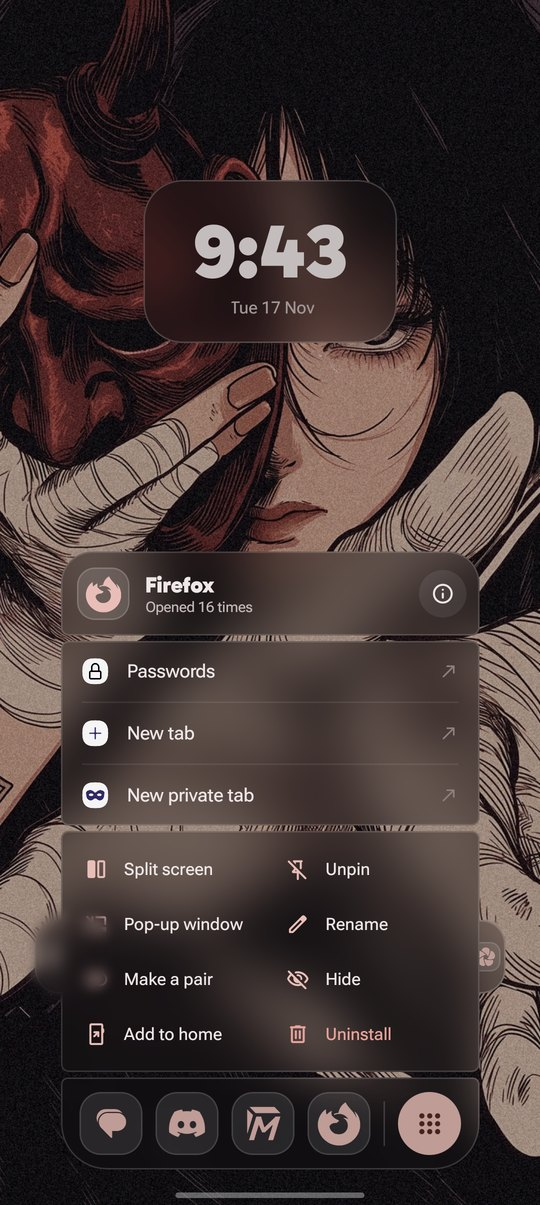
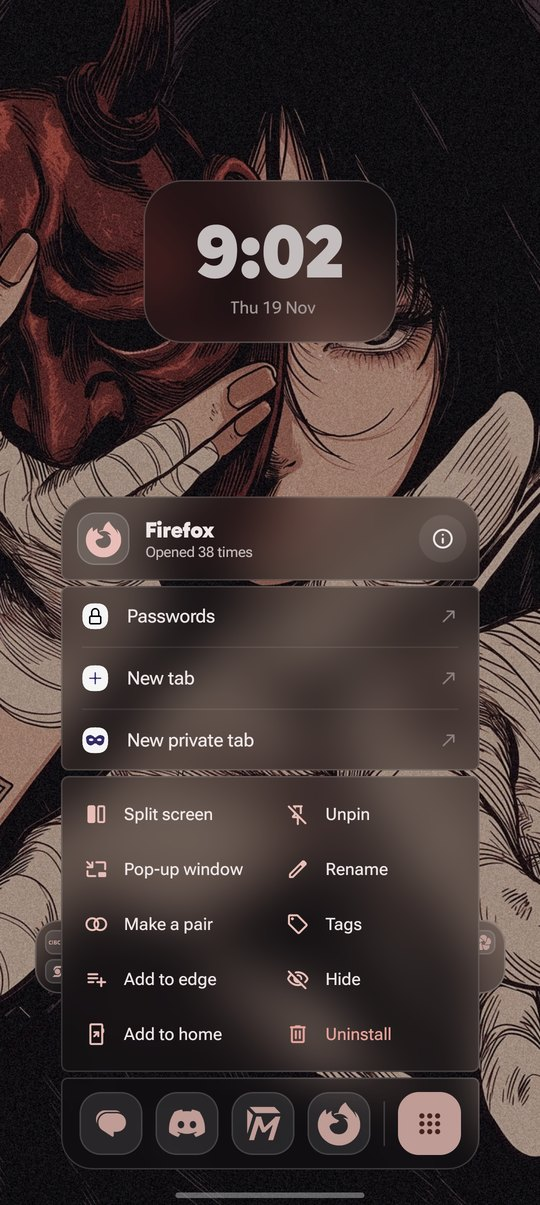
README overhaul with new screenshots
New shots of the edge sidebar and its settings page, the widgets page, the drawer's
Most used view, the pair maker, and fresh ones of everything else. The README now opens
with highlights, gives the edge sidebar, widgets page and pairs their own sections,
describes the inner screen's deck and dock, and ends with setup and the licence.

diff --git a/README.md b/README.md
@@ -2,30 +2,67 @@
 
 An Android home screen for **any phone**, in the look of the [Ninomae shell](https://github.com/Doctoena/Ninomae-Shell): rounded squircles, joined pieces, frosted glass, and colours taken from your wallpaper.
 
-It also has **foldable support**. On a foldable like the Galaxy Z Fold, the cover screen gets the phone layout and the big inner screen gets a desktop one, with a bar, a dock and app pairs. Each screen keeps its own grid and settings.
+It also has **foldable support**. On a foldable like the Galaxy Z Fold, the cover screen gets the phone layout and the big inner screen gets a desktop one, with a bar, a dock and app pairs. Each screen keeps its own grid, pages and settings.
 
 <p align="center">
   <img src="docs/screenshots/home.jpg" width="250" alt="Home screen: a frosted clock, glass folders and a glass dock over the wallpaper">
-  <img src="docs/screenshots/folder.jpg" width="250" alt="An open folder: a frosted pane grown out of the folder's icon">
-  <img src="docs/screenshots/menu.jpg" width="250" alt="Holding an app on the dock: its shortcuts and actions">
+  <img src="docs/screenshots/edge.jpg" width="250" alt="The edge sidebar: a glass rail of apps out of the right edge, Instagram under the finger with its name beside it">
+  <img src="docs/screenshots/today.jpg" width="250" alt="The widgets page: the date and weather, a rose Today card, and a calendar widget">
 </p>
 
 *Screenshots are from a phone-sized screen (a Galaxy Z Fold 7's cover screen).*
 
+## Highlights
+
+- **Frosted glass everywhere**: the dock, folders, menus, drawer and settings, all lined up with the wallpaper behind them.
+- **An edge sidebar**: slide up along the edge, glide onto an app, lift to open it.
+- **A search-first drawer** with your own tags, maths, contacts, calendar events, files and settings.
+- **A widgets page** left of home, with your day at a glance and a calendar that fits the glass.
+- **Themed icons** for every app, icon packs, and colours from your wallpaper.
+- **Foldable aware**: a desktop on the inner screen, a phone on the cover, and each remembers where you were.
+
 ## Frosted glass
 
-Samsung turns off Android's window blur, and Android won't let apps read your wallpaper. So you set the wallpaper from Ninomae (**Settings → Look → Wallpaper**). It keeps a frosted copy for the glass, a small preview, and the wallpaper's main colour for the theme. The drawer, settings, folders, dock, clock and menus are then all frosted from it, lined up with where the wallpaper really is.
+Samsung turns off Android's window blur, and Android won't let apps read your wallpaper. So you set the wallpaper from Ninomae (**Settings → Look → Wallpaper**). It keeps a frosted copy for the glass, a small preview, and the wallpaper's main colour for the theme. The drawer, settings, folders, dock, clock and menus are all frosted from it, lined up with where the wallpaper really is.
 
 If you change the wallpaper in another app, Ninomae notices: the glass goes plain (it would show the old picture), and a note above the dock asks you to pick the new one here.
+
+## The edge sidebar
+
+<p align="center">
+  <img src="docs/screenshots/edge.jpg" width="250" alt="The edge sidebar open, an app under the finger">
+  <img src="docs/screenshots/edge-settings.jpg" width="250" alt="Settings → Edge sidebar: a preview, the switch, side, where it opens, and its apps">
+</p>
+
+- **Slide up along the edge** of the home screen (left or right, your choice) and a slim glass rail of your own apps grows out of it, at your thumb or in the middle.
+- Keep your finger down and glide: the app under it swells on a soft rose glow, its neighbours a little, and its name shows beside the rail. **Lift to open it**, or lift off the rail and tap.
+- Its apps are its own, separate from the dock. Hold any app → **Add to edge**, or set it up in **Settings → Edge sidebar**: drag to reorder, pick apps, choose the side, or switch it off.
+
+## The home screen and widgets
+
+<p align="center">
+  <img src="docs/screenshots/today.jpg" width="250" alt="The widgets page">
+  <img src="docs/screenshots/edit.jpg" width="250" alt="Edit mode with the clock picked: handles on its edges, its card at the bottom">
+  <img src="docs/screenshots/widgets.jpg" width="250" alt="The widget picker with Ninomae's own widgets open">
+</p>
+
+- **The widgets page**, left of your first home page: the date and weather, a rose **Today** card (what's next, and your alarm), the player when something plays, then your widgets, half or full width.
+- **Hold an empty spot** to edit. Tap anything to pick it: drag its edges to resize it, and the bottom bar turns into its card (Rename, Unstack, Another widget, Remove). Hold and drag to move it, drop an app on another to make a folder, or drag it to the red **Remove** pill at the top.
+- **Widgets**: every app's Android widgets, plus Ninomae's own:
+  - **Clock**: a frosted slab with the time, the date, and an agenda of your next event, next alarm and the weather.
+  - **Calendar**: this month, with this week and next listed under it.
+  - **Ninomae stack**: a greeting with the weather, the player in rose, and your recent apps, joined in one card. Each also comes on its own.
+- **Widget stacks**: drop one widget on another and swipe through them. **Big folders**: resize a folder to tap its apps straight from the home screen.
 
 ## The app drawer
 
 <p align="center">
-  <img src="docs/screenshots/search.jpg" width="250" alt="Searching for an app">
+  <img src="docs/screenshots/apps.jpg" width="250" alt="The drawer: Most used apps and pairs, with the rail on the left">
+  <img src="docs/screenshots/search.jpg" width="250" alt="Searching: the top match washed in rose with Open">
   <img src="docs/screenshots/group.jpg" width="250" alt="The Media group in the drawer's rail">
 </p>
 
-- Swipe up from anywhere. Search is at the top and **focused as it opens**, so you can type straight away. Enter opens the top match.
+- **Swipe up** from anywhere. Search is at the top and **focused as it opens**, so you can type straight away. Enter opens the top match.
 - A slim rail on the left: **Most used**, **Recent**, **A–Z** (with a letter scrubber), your own **tags** (hold an app → Tags, or **＋** in the rail), then groups made from the categories apps give Android (Social, Media, Games, Maps, Work…).
 - While you type, the rail picks what to show: apps, people, calendar events, files (with All files access), settings, or the web.
 - Search answers questions too: sums (`12*7`, `15% of 80`), conversions (`5 km to mi`), contacts (call or text), and Android settings pages by name.
@@ -33,29 +70,24 @@ If you change the wallpaper in another app, Ninomae notices: the glass goes plai
 
 ## Folders and the hold menu
 
-- A **folder** opens as a pane of frosted glass grown from its icon, four apps to a page. Tap the name to rename it, **＋** to tick apps in or out, and **↗** to see them all at once.
-- **Hold an app** for its own shortcuts, then Split screen, Pop-up window, Make a pair, Pin, Rename, Hide, App info and Uninstall. From the dock the menu joins onto it. In the drawer or a folder, it opens without closing them. Rename sits on the keyboard, with the app's own name one tap away.
-- **Uninstalling** an app takes it off everywhere: home, folders, the dock, pairs and tags.
-- **Notifications** show as a small rose bar under the app's icon, the same everywhere.
-
-## The edge sidebar
-
-- **Slide up along the edge** of the home screen (left or right, your choice) and a slim glass rail of your own apps grows out of it, at your thumb or in the middle.
-- Keep your finger down and glide: the app under it swells on a soft rose glow, its neighbours a little, and its name shows beside the rail. **Lift to open it**, or lift off the rail and tap.
-- Its apps are its own, separate from the dock. Hold any app → **Add to edge**, or set it all up in **Settings → Edge sidebar** (drag to reorder, pick apps, switch it off).
-
-## Edit mode and widgets
-
 <p align="center">
-  <img src="docs/screenshots/edit.jpg" width="250" alt="Edit mode with the clock picked: handles on its edges, its card at the bottom">
-  <img src="docs/screenshots/widgets.jpg" width="250" alt="The widget picker with Ninomae's own widgets open">
+  <img src="docs/screenshots/folder.jpg" width="250" alt="An open folder: a frosted pane grown out of the folder's icon">
+  <img src="docs/screenshots/menu.jpg" width="250" alt="Holding an app on the dock: its shortcuts and actions">
 </p>
 
-- **Hold an empty spot** to edit. Tap anything to pick it: drag its edges to resize it, and the bottom bar turns into its card (Rename, Unstack, Another widget, Remove). Hold and drag to move it, or drop an app on another app to make a folder.
-- **Widgets**: every app's Android widgets, plus Ninomae's own:
-  - **Clock**: a frosted slab with the time, the date, and an agenda of your next event, next alarm and the weather.
-  - **Greeting, Player, Jump back in**, and a **stack** that holds several widgets you swipe through.
-- **Widget stacks**: drop one widget on another. **Big folders**: resize a folder to tap its apps straight from the home screen.
+- A **folder** opens as a pane of frosted glass grown from its icon, four apps to a page. Tap the name to rename it, **＋** to tick apps in or out, and **↗** to see them all at once.
+- **Hold an app** for its own shortcuts, then Split screen, Pop-up window, Make a pair, Add to edge, Pin, Rename, Tags, Hide and Uninstall. From the dock the menu joins onto it. In the drawer or a folder, it opens without closing them.
+- **Rename** sits on the keyboard, with the app's own name one tap away.
+- **Uninstalling** an app takes it off everywhere: home, folders, the dock, the edge, pairs and tags.
+- **Notifications** show as a small rose bar under the app's icon, the same everywhere.
+
+## App pairs
+
+<p align="center">
+  <img src="docs/screenshots/pair.jpg" width="250" alt="Making a pair: Firefox on the left, choosing the right side">
+</p>
+
+Two apps opened side by side in split screen, with one tap. Make one from the hold menu (**Make a pair**) or the drawer: tap a side, pick its app (most used first), name it, Save. On the inner screen your pairs sit in the bar.
 
 ## Settings
 
@@ -66,8 +98,9 @@ If you change the wallpaper in another app, Ninomae notices: the glass goes plai
 
 - Tiles that show what each part is set to, and a search for any setting.
 - **Look**: the wallpaper, colours (from the wallpaper, a swatch, or Samsung's), **themed icons** for every app (apps without a monochrome icon get one made from their logo), and icon packs.
-- **Home screen**: grid size per screen, app names, notification bars, lock the layout.
+- **Home screen**: grid size per screen, app names, notification bars, the widgets page, lock the layout.
 - **Gestures**: swipe down for the deck or Samsung's panel (per screen), double-tap to lock.
+- **Edge sidebar**: see above.
 - **At a glance**: your next calendar event, and the weather if you turn it on (Open-Meteo, rough location only).
 - **Backup and restore** your whole home to a file.
 
@@ -75,28 +108,34 @@ If you change the wallpaper in another app, Ninomae notices: the glass goes plai
 
 On a tablet-sized screen, like a foldable's inner screen, the layout becomes a desktop:
 
-
-- A **bar** in place of the status bar: app pairs on the left, the player in the middle, status and the clock on the right.
-- **App pairs**: two apps opened side by side in split screen, named, one tap from the bar. Made on a full-screen page: tap a side, pick its app, Save.
-- A **control deck** pulled down from the top: toggles, flashlight, screenshot, lock, the player with volume and brightness, and notifications.
+- A **bar** in place of the status bar, on glass and split around the camera: app pairs, the player, then status and the clock.
+- A **wider dock** with your recent apps after the pinned ones.
+- A **control deck** pulled down from the top: a rail of toggles (Wi-Fi, Bluetooth, location, Do not disturb, rotation, torch, screenshot, lock), the player tinted by its album art with brightness and volume, and notifications grouped by app.
+- Folding or unfolding puts each screen back on the page it was on.
 
 ## Build
 
-Needs a JDK 17 or newer. The release build is the one to use day to day, since it's shrunk and much faster than a debug build:
+Needs a JDK 17 or newer, and Android 12 or newer on the phone. The release build is the one to use day to day, since it's shrunk and much faster than a debug build:
 
 ```
 ./gradlew assembleRelease
 adb install -r app/build/outputs/apk/release/app-release.apk
 ```
 
+Then make it your home app: Android asks the first time you press Home, or use **Settings → Access → Home app** in Ninomae.
+
 ## Access it asks for
 
 | Access | For |
 |---|---|
-| Home app | Making it your home screen |
+| Home app | Making it your home screen, and apps' own shortcuts |
 | Notification access | The player, notifications and the rose bars |
 | Accessibility | Split screen and pairs, lock, screenshot, power menu |
 | Change system settings | Brightness and auto-rotate |
 | Set wallpaper | Setting the wallpaper it frosts for the glass |
 
-Contacts, calendar and location are only asked for when you turn on the feature that needs them.
+Contacts, calendar, files and location are only asked for when you turn on the feature that needs them.
+
+## Licence
+
+GPL-3.0, like [Ninomae-Shell](https://github.com/Doctoena/Ninomae-Shell). The bundled fonts keep their own licences: see [NOTICE.md](NOTICE.md).
